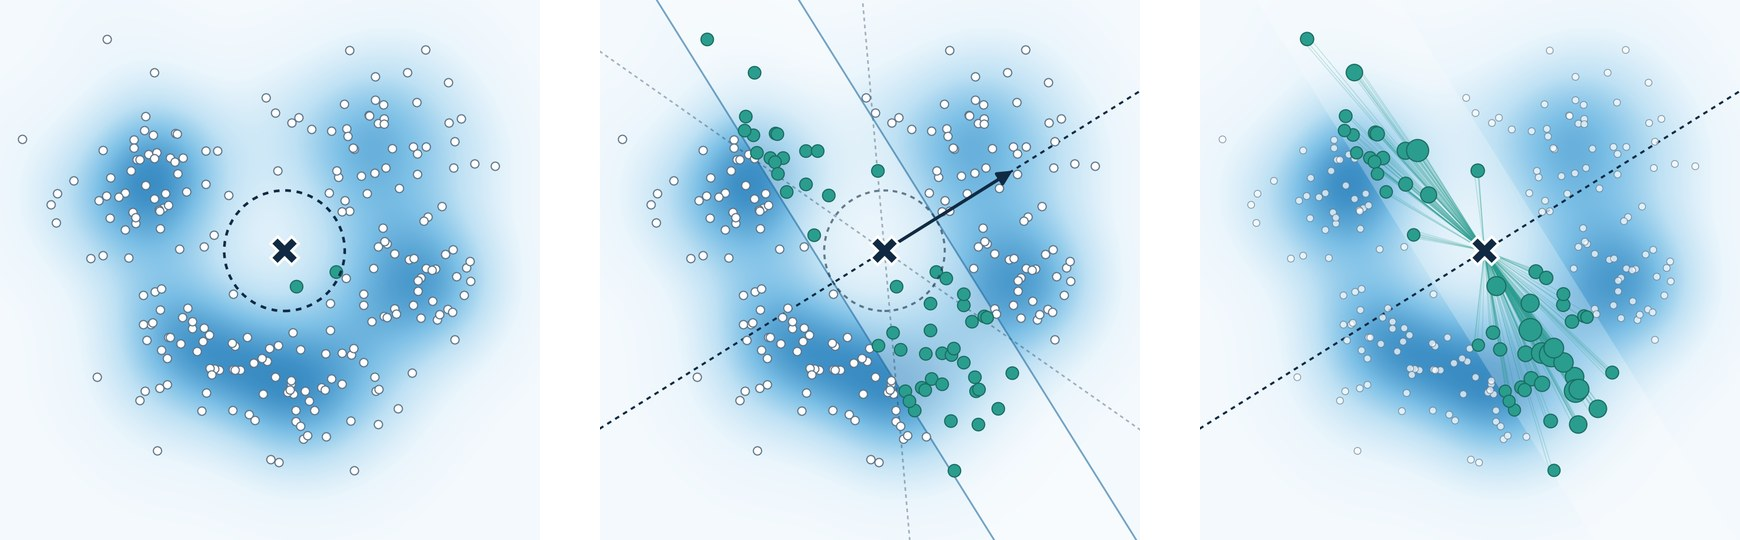
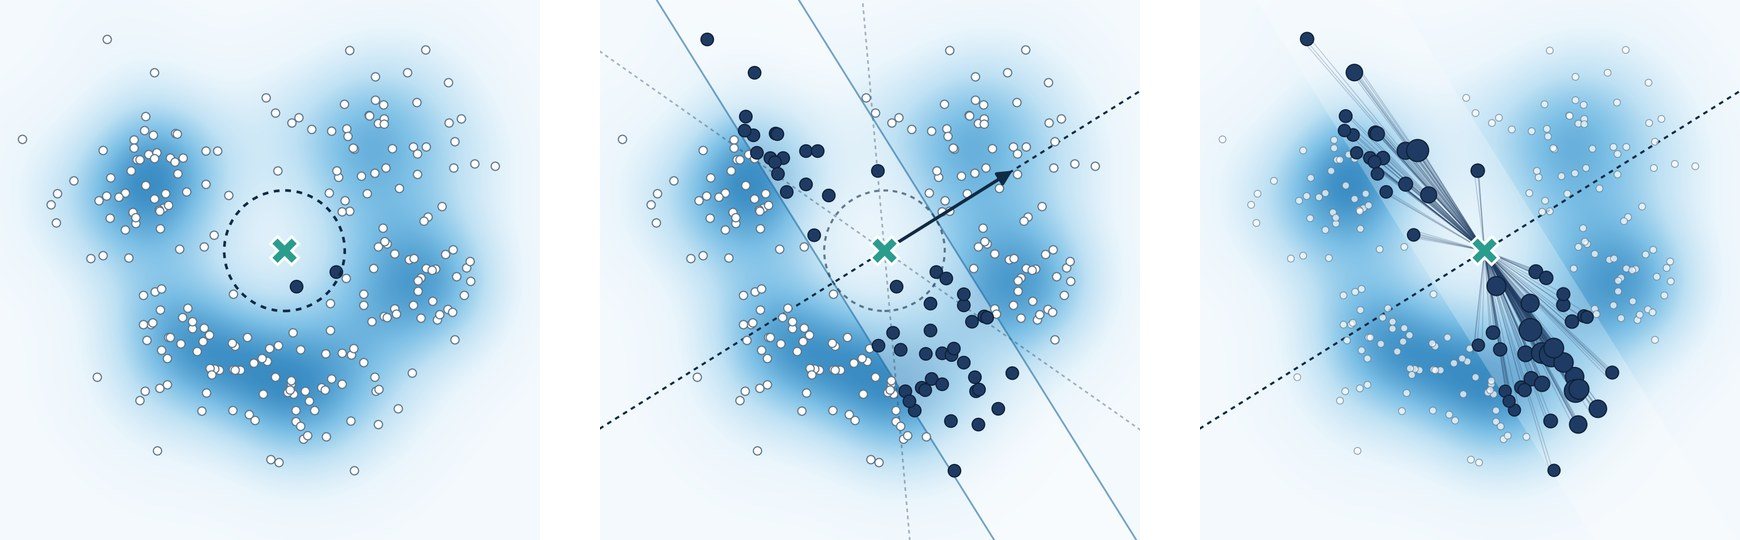
Navy HYPE-CCDM palette, field-style NanoDiff figure
Claude-Session: https://claude.ai/code/session_0114fWJ3frxqWYcAUYCuZCR1

diff --git a/publications/index.html b/publications/index.html
@@ -79,7 +79,7 @@
         </article>
         <article id="nanodiff" class="research-project" aria-labelledby="nanodiff-title">
           <div class="project-visual">
-            <div class="figure-box project-image strip"><svg class="research-thumbnail" viewBox="0 0 600 224" role="img" aria-label="A voxel nanophotonic device and its electric and magnetic field distributions."><image href="/assets/img/nanodiff-panels.jpg" x="0" y="0" width="600" height="186.2" preserveAspectRatio="xMidYMid meet"/><text x="93.1" y="212" text-anchor="middle" class="fig-label">Device</text><text x="300.0" y="212" text-anchor="middle" class="fig-label">E field</text><text x="506.9" y="212" text-anchor="middle" class="fig-label">H field</text></svg></div>
+            <div class="figure-box project-image strip"><svg class="research-thumbnail" viewBox="0 0 600 224" role="img" aria-label="A voxel nanophotonic device and its electric and magnetic field distributions."><image href="/assets/img/nanodiff-panels.jpg" x="0" y="0" width="600" height="186.2" preserveAspectRatio="xMidYMid meet"/><text x="93.1" y="212" text-anchor="middle" class="fig-label">Device</text><text x="300.0" y="212" text-anchor="middle" class="fig-label">Predicted E field</text><text x="506.9" y="212" text-anchor="middle" class="fig-label">Predicted H field</text></svg></div>
             <div class="image-caption"><span>03</span><span>AI for science</span></div>
             
           </div>
